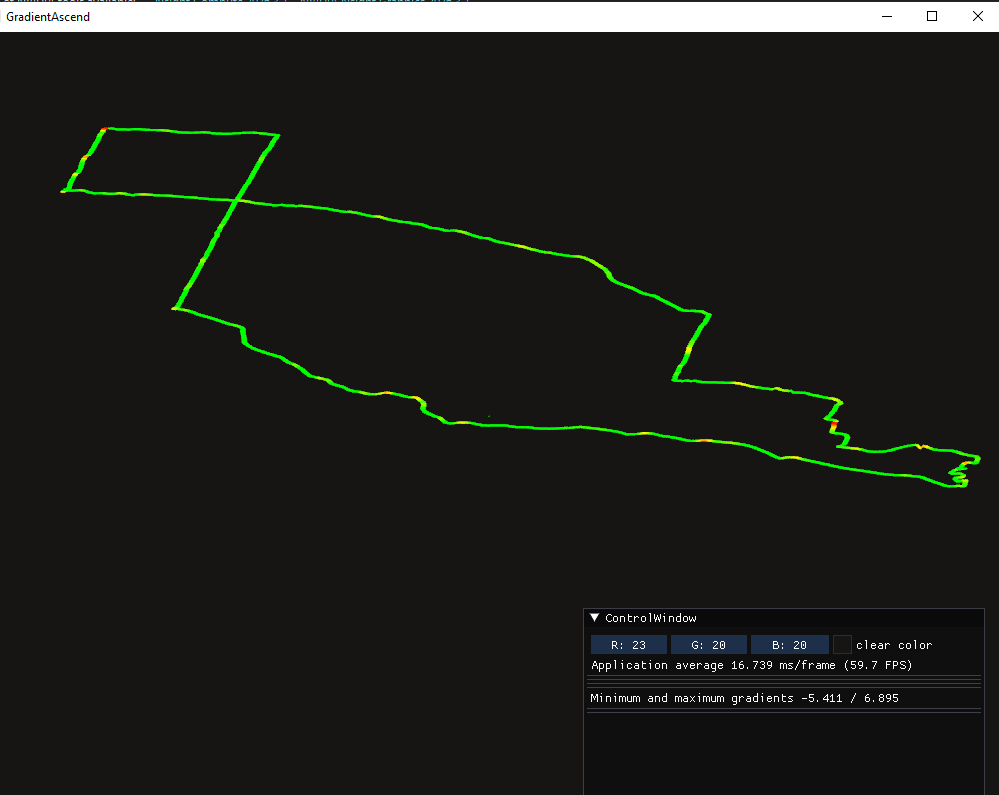
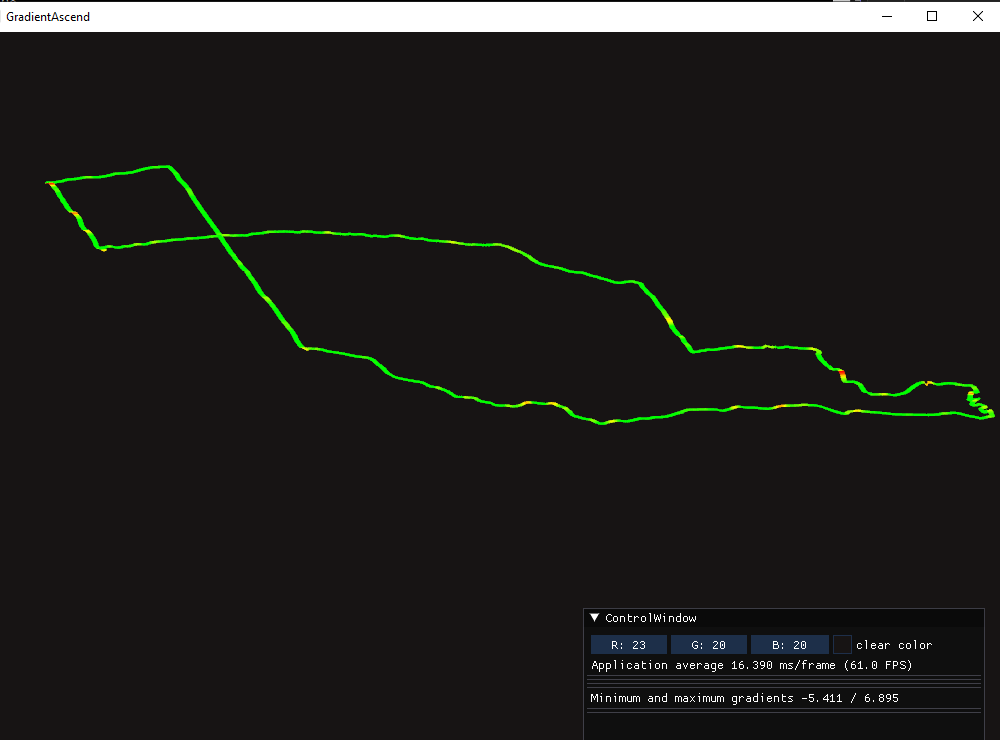
converted map locations to meters

diff --git a/source/data_handle/main.cpp b/source/data_handle/main.cpp
@@ -36,10 +36,11 @@ static void glfw_error_callback(int error, const char* description)
 int main()
 {
 	GDALAllRegister();
+	CPLSetConfigOption("PROJ_LIB", "C:\\vcpkg\\packages\\proj_x64-windows\\share\\proj");
 
 	//fs::path testgpxpath(R"(D:\Files\GradientAscent\data\Afternoon_Ride.gpx)");
-	//fs::path testgpxpath(R"(D:\Files\GradientAscent\data\Lunch_Ride.gpx)");
-	fs::path testgpxpath(R"(D:\Files\GradientAscent\data\Afternoon_Ride_09272026.gpx)");
+	fs::path testgpxpath(R"(D:\Files\GradientAscent\data\Lunch_Ride.gpx)");
+	//fs::path testgpxpath(R"(D:\Files\GradientAscent\data\Afternoon_Ride_09272026.gpx)");
 
 	std::vector<std::tuple<int, int, float, float, float>> routeData;
 
@@ -52,6 +53,7 @@ int main()
 		auto [minlat, maxlat, minlon, maxlon] = track.getMinMaxLatLon();
 		std::cout << std::format("{}, {}, {}, {}\n", minlat, maxlat, minlon, maxlon);
 		ot_data_download(trackName + ".tif", minlat, maxlat, minlon, maxlon, 0.01f);
+		//warp_dem_to_utm(trackName + ".tif", trackName + "_5m.tif", 5.0);
 		fs::path geofilepath(trackName + ".tif");
 		tiff_data_handler tiffHandler(geofilepath);
 
@@ -67,6 +69,13 @@ int main()
 		//std::ofstream elevationFile("elevation.csv", std::ios::trunc);
 
 		int row_last = -9999, col_last = -9999;
+
+		auto centerLocation = track.getCenterLocation();
+		float center_x, center_y;
+		GEO_DATA_ERROR error = tiffHandler.getMetricCoordinates(centerLocation.first, centerLocation.second, center_x, center_y);
+
+		if (error != GEO_DATA_ERROR::GEO_DATA_NO_ERROR)
+			throw std::runtime_error("error while calculating metric coordinates for center location");
 
 		for (auto& t : trackpoints)
 		{
@@ -93,7 +102,7 @@ int main()
 			//elevationFile.write(writeLine.c_str(), writeLine.length());
 			//line += 1;
 
-			float difference = t.elevation - elevation;
+			//float difference = t.elevation - elevation;
 
 			//std::cout << std::format("{}tiff elevation {}, difference is {} {}\n", GREEN, elevation, difference, RESET);
 			tiffHandler.putTreckPoint(t.lat, t.lon);
@@ -109,7 +118,13 @@ int main()
 			{
 				float gradient, distance;
 				computeGradientDistance(tp, t, gradient, distance);
-				routeData.push_back({ row, col, elevation, gradient, distance });
+				float x, y;
+				GEO_DATA_ERROR error = tiffHandler.getMetricCoordinates(t.lat, t.lon, x, y);
+
+				if (error != GEO_DATA_ERROR::GEO_DATA_NO_ERROR)
+					throw std::runtime_error(std::format("error while caclulating metric coordinates for {} {}", t.lat, t.lon));
+
+				routeData.push_back({ int(x), -int(y), elevation * 10, gradient, distance });
 			}
 
 			tp = t;
@@ -229,17 +244,17 @@ int main()
 
 			if (Controls::moveback || Controls::key_w)
 			{
-				context->orthoLeft += 10;
-				context->orthoRight -= 10;
-				context->orthoBottom += 10;
-				context->orthoTop -= 10;
+				context->orthoLeft += 50;
+				context->orthoRight -= 50;
+				context->orthoBottom += 50;
+				context->orthoTop -= 50;
 			}
 			else if (Controls::moveforward || Controls::key_s)
 			{
-				context->orthoLeft -= 10;
-				context->orthoRight += 10;
-				context->orthoBottom -= 10;
-				context->orthoTop += 10;
+				context->orthoLeft -= 50;
+				context->orthoRight += 50;
+				context->orthoBottom -= 50;
+				context->orthoTop += 50;
 			}
 
 			cameraGlobal.computeViewProjectionMatrices(context->GetOrthoLeft(),

diff --git a/include/geo_data_handler.h b/include/geo_data_handler.h
@@ -5,6 +5,11 @@
 #include <format>
 #include <limits>
 
+#include <gdal.h>
+#include <ogr_spatialref.h>
+#include <gdal_utils.h>
+
+
 #include <curl/curl.h>
 
 #include <common_defs.h>
@@ -80,6 +85,39 @@ public:
 		{
 			GDALClose(poDataset);
 		}
+	}
+
+	GEO_DATA_ERROR getMetricCoordinates(float lat, float lon, float& x, float& y)
+	{
+		OGRSpatialReference oSourceSRS;
+		oSourceSRS.SetWellKnownGeogCS("WGS84");
+		oSourceSRS.SetAxisMappingStrategy(OAMS_TRADITIONAL_GIS_ORDER); // Force Lon, Lat
+
+		OGRSpatialReference oTargetSRS;
+		oTargetSRS.importFromEPSG(32615); // UTM Zone 15N for Minnesota
+		oTargetSRS.SetAxisMappingStrategy(OAMS_TRADITIONAL_GIS_ORDER); // Force Easting, Northing
+
+		OGRCoordinateTransformation* poTransform = OGRCreateCoordinateTransformation(&oSourceSRS, &oTargetSRS);
+
+		double x_metric = lon;
+		double y_metric = lat;
+
+		GEO_DATA_ERROR stastus = GEO_DATA_ERROR::GEO_DATA_NO_ERROR;
+
+
+		if (poTransform && poTransform->Transform(1, &x_metric, &y_metric)) {
+			x = (float)x_metric;
+			y = (float)y_metric;
+		}
+		else
+		{
+			stastus = GEO_DATA_ERROR::GEO_DATA_INVALID_VALUE;
+		}
+
+		OGRCoordinateTransformation::DestroyCT(poTransform);
+
+		return stastus;
+
 	}
 
 	GEO_DATA_ERROR getElevation(float lat, float lon, float &elevation)
@@ -257,6 +295,8 @@ int ot_data_download(const std::string& filename, float minlat, float maxlat, fl
 	curl_global_cleanup();
 	return 0;
 }
+
+
 
 inline float toRadians(float degree) 
 {

diff --git a/include/activity_stream.h b/include/activity_stream.h
@@ -63,6 +63,30 @@ public:
 		return positions;
 	}
 
+	virtual std::pair<float, float> getCenterLocation()
+	{
+		// Capture by const reference to avoid copying the whole collection
+		const auto& positions = getPositions();
+
+		if (positions.empty())
+			return { 0.0f, 0.0f }; // Clean brace initialization
+
+		float lat = 0.0f;
+		float lon = 0.0f;
+
+		// Use const auto& to prevent copying pairs on every loop iteration
+		for (const auto& loc : positions)
+		{
+			lat += loc.first;
+			lon += loc.second;
+		}
+
+		// Cast size to float explicitly to avoid implicit conversion warnings
+		const float count = static_cast<float>(positions.size());
+
+		return { lat / count, lon / count };
+	}
+
 	virtual std::tuple<float, float, float, float> getMinMaxLatLon() const
 	{
 		if (trackpoints.size() == 0)

diff --git a/source/data_handle/sources/context.cpp b/source/data_handle/sources/context.cpp
@@ -21,12 +21,12 @@ Context::Context(GLFWwindow* window) : startSavingAll(false)
 	std::strncpy(screenShotScalePercent, "0", sizeof(screenShotScalePercent)-1);
 	std::strncpy(saveWidth, "7920",sizeof(saveWidth)-1);
 	std::strncpy(saveHeight, "6004",sizeof(saveHeight)-1);
-	orthoLeft = -1000;
-	orthoRight = 1000;
-	orthoBottom = -1000;
-	orthoTop = 1000;
+	orthoLeft = -10000;
+	orthoRight = 10000;
+	orthoBottom = -10000;
+	orthoTop = 10000;
 	orthoNear = -10000;
-	orthoFar = 20000;
+	orthoFar = 30000;
 }
 
 float Context::GetScreenshotScalePercent()

diff --git a/source/data_handle/sources/routePreview.cpp b/source/data_handle/sources/routePreview.cpp
@@ -37,7 +37,7 @@ void RoutePreview::Setup()
 
     float offsetX = 0.0f;
     float offsetY = 0.0f;
-    float trackWidth = 10.0f;
+    float trackWidth = 100.0f;
 
     if (!routeData.empty())
     {
